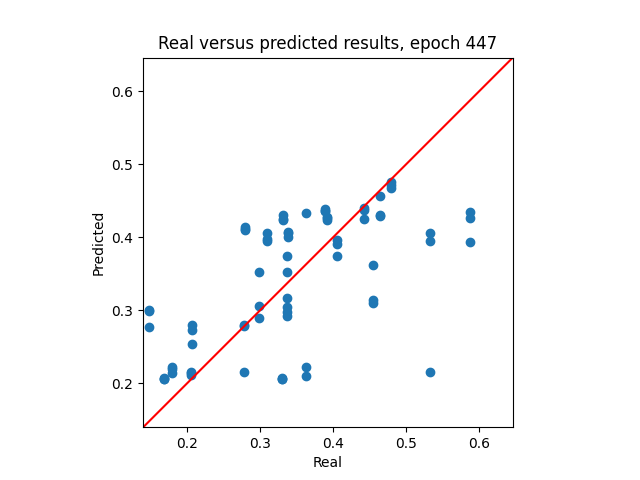
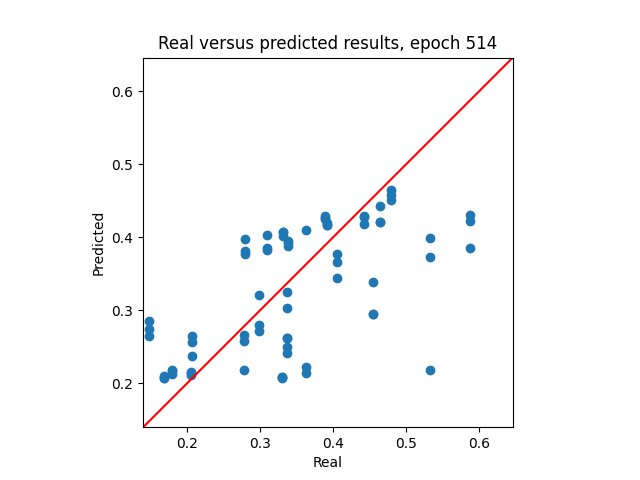
R2 = 0.42

diff --git a/train_stage_two.py b/train_stage_two.py
@@ -82,7 +82,7 @@ ossl_labels = [
 
 class LitModel(L.LightningModule):
     def __init__(
-        self, input_dim: int, hidden_size: int, output_dim: int, p: float = 0.2
+        self, input_dim: int, hidden_size: int, output_dim: int, pca, p: float = 0.2
     ):
         super().__init__()
 
@@ -122,11 +122,10 @@ class LitModel(L.LightningModule):
 
         if self.training:
             noise = torch.zeros_like(x)
-            noise.normal_(0, std=1e-4)
+            noise.normal_(0, std=1e-2)
             scale = torch.rand(1).cuda() + 0.5
             noisy_x = x * scale + noise.cuda()
             y_pred = self.head(torch.cat((noisy_x, backbone_y), dim=-1))
-
         else:
             y_pred = self.head(torch.cat((x, backbone_y), dim=-1))
         # print(torch.cat((x, backbone_y), dim=-1))
@@ -332,10 +331,14 @@ class LitModel(L.LightningModule):
 
 
 if __name__ == "__main__":
+    pca = PCA(n_components=120)
+    pca.fit(np.vstack((X_train, X_val)))
+
     model = LitModel(
         input_dim=X_train.shape[-1],
         hidden_size=200,
         output_dim=len(mississippi_labels),
+        pca=pca,
         p=0.5,
     )
 
